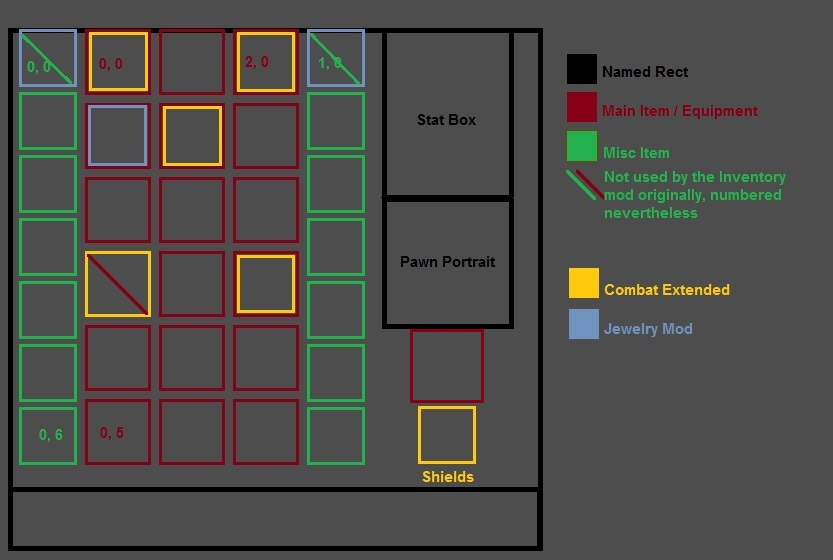
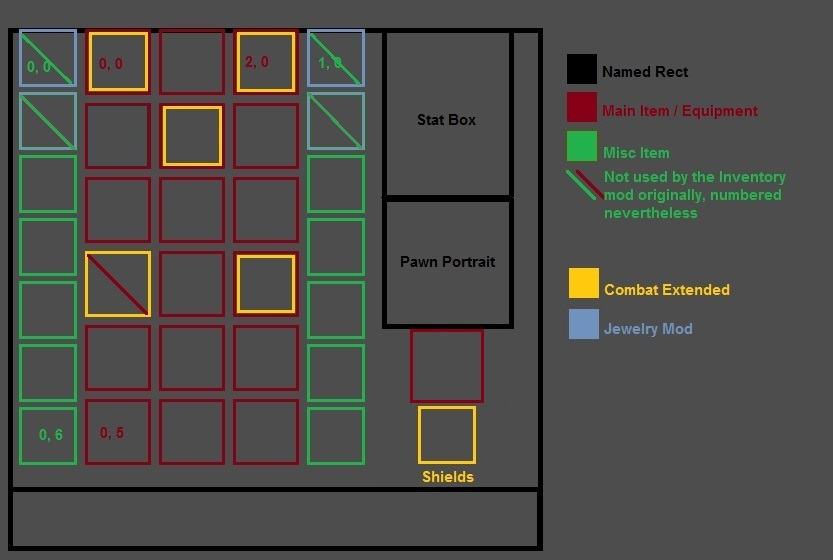
feat: add ring slot & use only misc slots

Changed region(s): [[0.0, 0.1518, 0.1873, 0.3036], [0.3433, 0.1518, 0.437, 0.2732]]

diff --git a/Source/1.1/GearTab.cs b/Source/1.1/GearTab.cs
@@ -400,19 +400,25 @@ namespace Sandy_Detailed_RPG_Inventory
                     //They currently overlape with some appearoll 2 stuff
                     else if (bodyPartGroups.Contains(Sandy_Gear_DefOf.Neck) && (layers.Contains(Sandy_Gear_DefOf.Accessories)))
                     {
-                        Rect newRect = RectAtMainItemArea(0, 1);
+                        Rect newRect = RectAtMiscItemArea(1, 1);
                         GUI.DrawTexture(newRect, itemBackground);
                         DrawThingRow1(newRect, current2, false);
                     }
                     else if (bodyPartGroups.Contains(Sandy_Gear_DefOf.Ears) && (layers.Contains(Sandy_Gear_DefOf.Accessories)))
                     {
-                        Rect newRect = RectAtMiscItemArea(1, 0);
+                        Rect newRect = RectAtMiscItemArea(0, 1);
                         GUI.DrawTexture(newRect, itemBackground);
                         DrawThingRow1(newRect, current2, false);
                     }
                     else if (bodyPartGroups.Contains(BodyPartGroupDefOf.LeftHand) && (layers.Contains(Sandy_Gear_DefOf.Accessories)))
                     {
                         Rect newRect = RectAtMiscItemArea(0, 0);
+                        GUI.DrawTexture(newRect, itemBackground);
+                        DrawThingRow1(newRect, current2, false);
+                    }
+                    else if (bodyPartGroups.Contains(BodyPartGroupDefOf.RightHand) && (layers.Contains(Sandy_Gear_DefOf.Accessories)))
+                    {
+                        Rect newRect = RectAtMiscItemArea(1, 0);
                         GUI.DrawTexture(newRect, itemBackground);
                         DrawThingRow1(newRect, current2, false);
                     }
